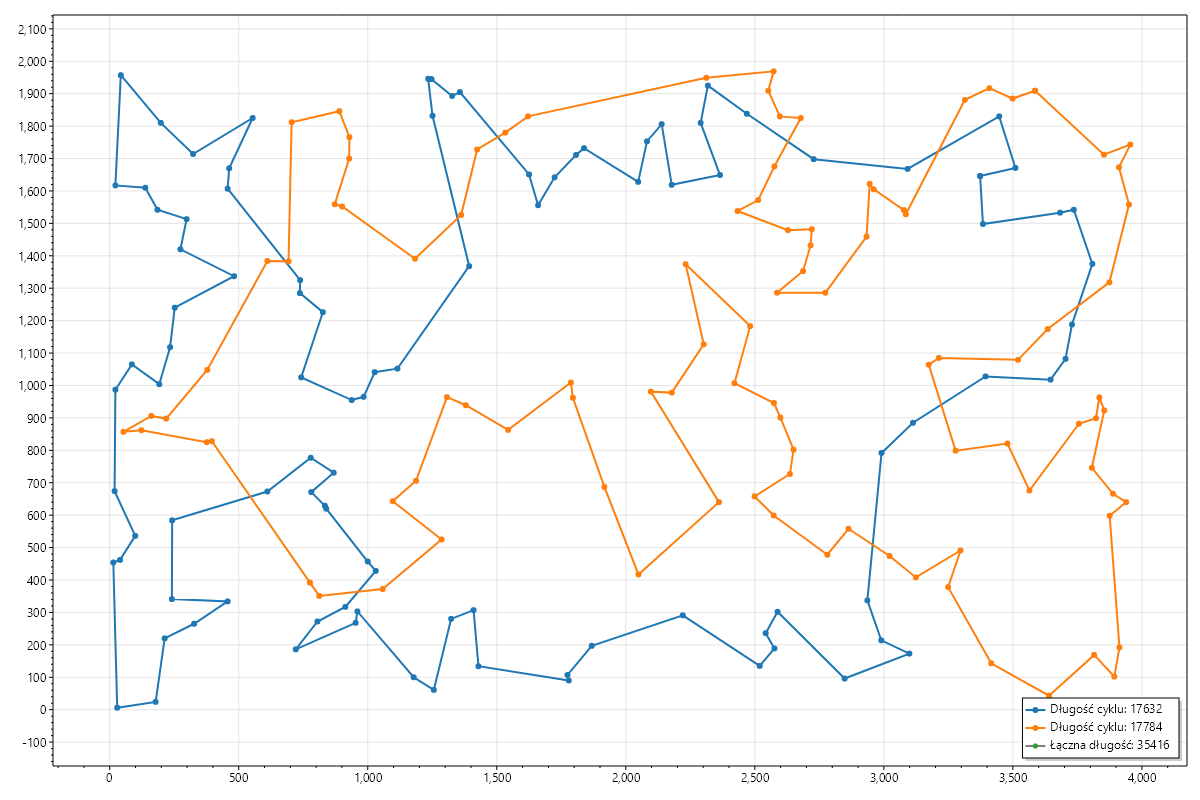
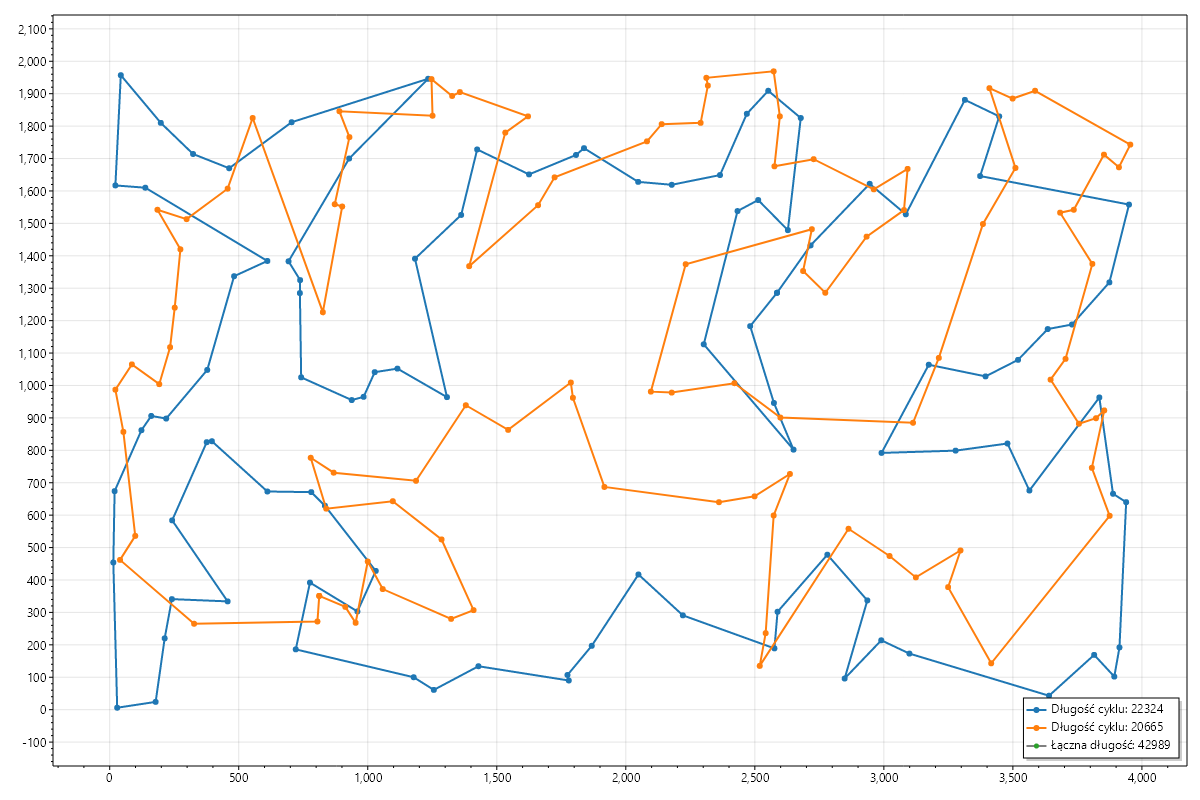
k

diff --git a/Cli/Benchmarks/BenchmarkMemory.cs b/Cli/Benchmarks/BenchmarkMemory.cs
@@ -10,12 +10,14 @@ using Domain.Structures.NodeLists;
 namespace Cli.Benchmarks;
 
 public static class BenchmarkMemory {
-  public static readonly Instance Instance = Instance.Predefined.KroA100;
-  public static Searchable.Configuration Configuration => new() {
-    Initializers = { (SearchType.Random, new(2, Instance.Dimension)) },
-    Variant = (int?)SteepestLocalSearch.Variant.Mixed
+  public static readonly Instance Instance = Instance.Predefined.KroB200;
+  public static Searchable.Configuration Configuration => new(2, Instance.Dimension) {
+    IterationLimit = 100,
+    Variant = (int?)SteepestLocalSearch.Variant.Mixed,
+    Initializers = { (SearchType.Random, new(2, Instance.Dimension)) }
   };
-  public static Searchable Search => SearchType.GreedyLocal;
+  public static Searchable Search => SearchType.SteepestLocal;
+  public const string SearchName = nameof(SearchType.SteepestLocal);
   public const int Iterations = 100;
 
   public static readonly List<ImmutableArray<NodeList>> Results = new();
@@ -31,13 +33,13 @@ public static class BenchmarkMemory {
     var plot = new ScottPlot.Plot();
     foreach (var cycle in best.cycles) plot.Add.Cycle(cycle, Instance);
     plot.Add.Label($"Łączna długość: {Instance.Distance[best.cycles]}");
-    plot.Save($"best-{Instance.Name}-cycles");
+    plot.Save($"best-{Instance.Name}-{SearchName}-cycles");
     plot.Clear();
 
-    foreach (var cycle in worst.cycles) plot.Add.Cycle(cycle, Instance);
-    plot.Add.Label($"Łączna długość: {Instance.Distance[worst.cycles]}");
-    plot.Save($"worst-{Instance.Name}-cycles");
-    plot.Clear();
+    // foreach (var cycle in worst.cycles) plot.Add.Cycle(cycle, Instance);
+    // plot.Add.Label($"Łączna długość: {Instance.Distance[worst.cycles]}");
+    // plot.Save($"worst-{Instance.Name}-{SearchName}-cycles");
+    // plot.Clear();
 
     Results.Clear();
   }

diff --git a/Algorithms/Searches/Implementations/IteratedLocalSearch.cs b/Algorithms/Searches/Implementations/IteratedLocalSearch.cs
@@ -66,24 +66,21 @@ public class IteratedLocalSearch : Search {
       foreach (var perturbation in perturbations) perturbation.Apply();
 
       return new() {
-        Variant = (int?)SteepestLocalSearch.Variant.InternalEdgeExternalVertices,
-        Initializers = {
-          (SearchType.WeightedRegretCycleExpansion, new() {
-            Population = population,
-            Regret = 2,
-            Weight = 0.38f,
-          })
-        }
+        Population = population,
+        Regret = 2,
+        Weight = 0.38f,
       };
     }
 
 
-    var best = SearchType.Random.Search(instance, new(population.Length, instance.Dimension));
+    var best = SearchType.SteepestLocal.Search(instance, new() {
+      Initializers = { (SearchType.Random, new() { Population = population }) }
+    });
     var ts = TimeSpan.FromSeconds(timelimit);
 
     var start = DateTime.Now;
     while (DateTime.Now - start < ts) {
-      var candidate = SearchType.SteepestLocal.Search(instance, CreateConfiguration(best));
+      var candidate = SearchType.WeightedRegretCycleExpansion.Search(instance, CreateConfiguration(best));
 
       if (instance.Distance[candidate] >= instance.Distance[best]) continue;
       best = candidate;

diff --git a/Cli/Program.cs b/Cli/Program.cs
@@ -38,3 +38,7 @@ BenchmarkRunner.Run<BenchmarkSearch>();
 //     break;
 //   }
 // }
+// | Method |    Mean |    Error |   StdDev |     Min |     Max |       Gen0 | Average distance | Min distance | Max distance |      Gen1 | Allocated |
+// |   KroA | 3.095 s | 0.0196 s | 0.0116 s | 3.078 s | 3.116 s | 39000.0000 |         43832.50 |     42989.00 |     44585.00 | 4000.0000 | 315.81 MB |
+// |------- |--------:|---------:|---------:|--------:|--------:|-----------:|-----------------:|-------------:|-------------:|----------:|----------:|
+// |   kroB | 3.050 s | 0.0253 s | 0.0151 s | 3.017 s | 3.072 s | 39000.0000 |         43902.30 |     43327.00 |     44306.00 | 4000.0000 | 315.82 MB |
